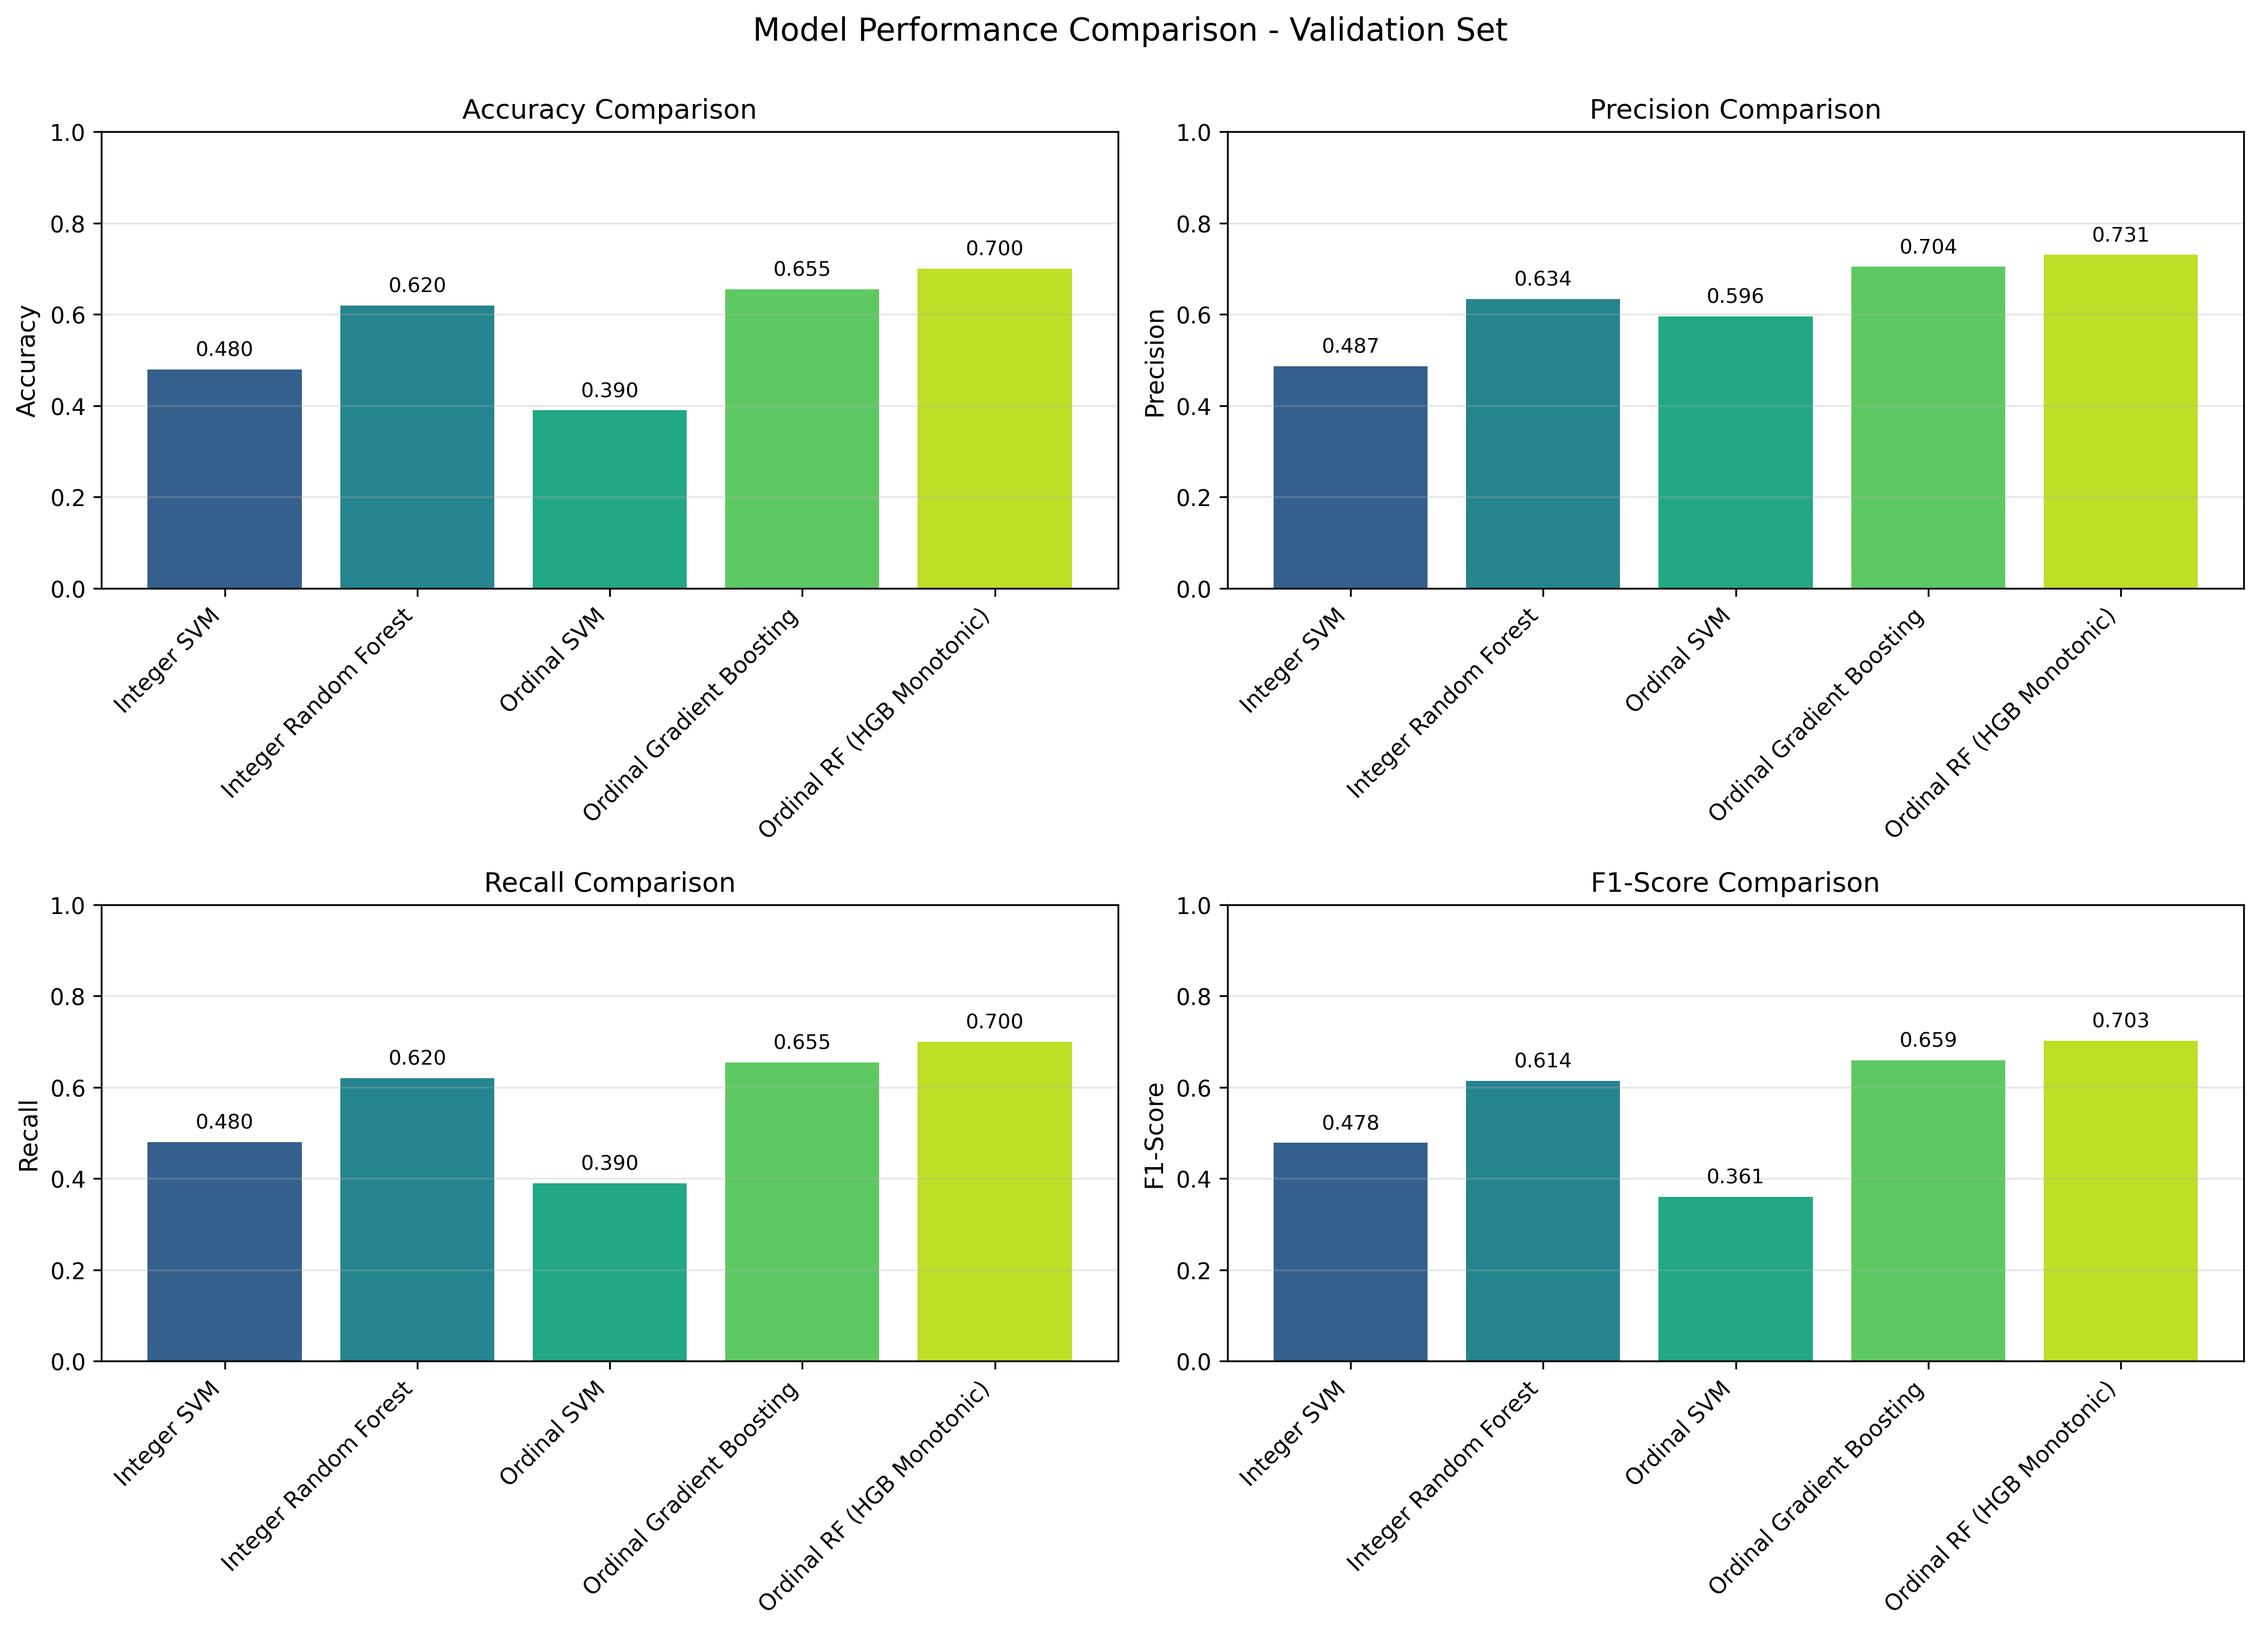
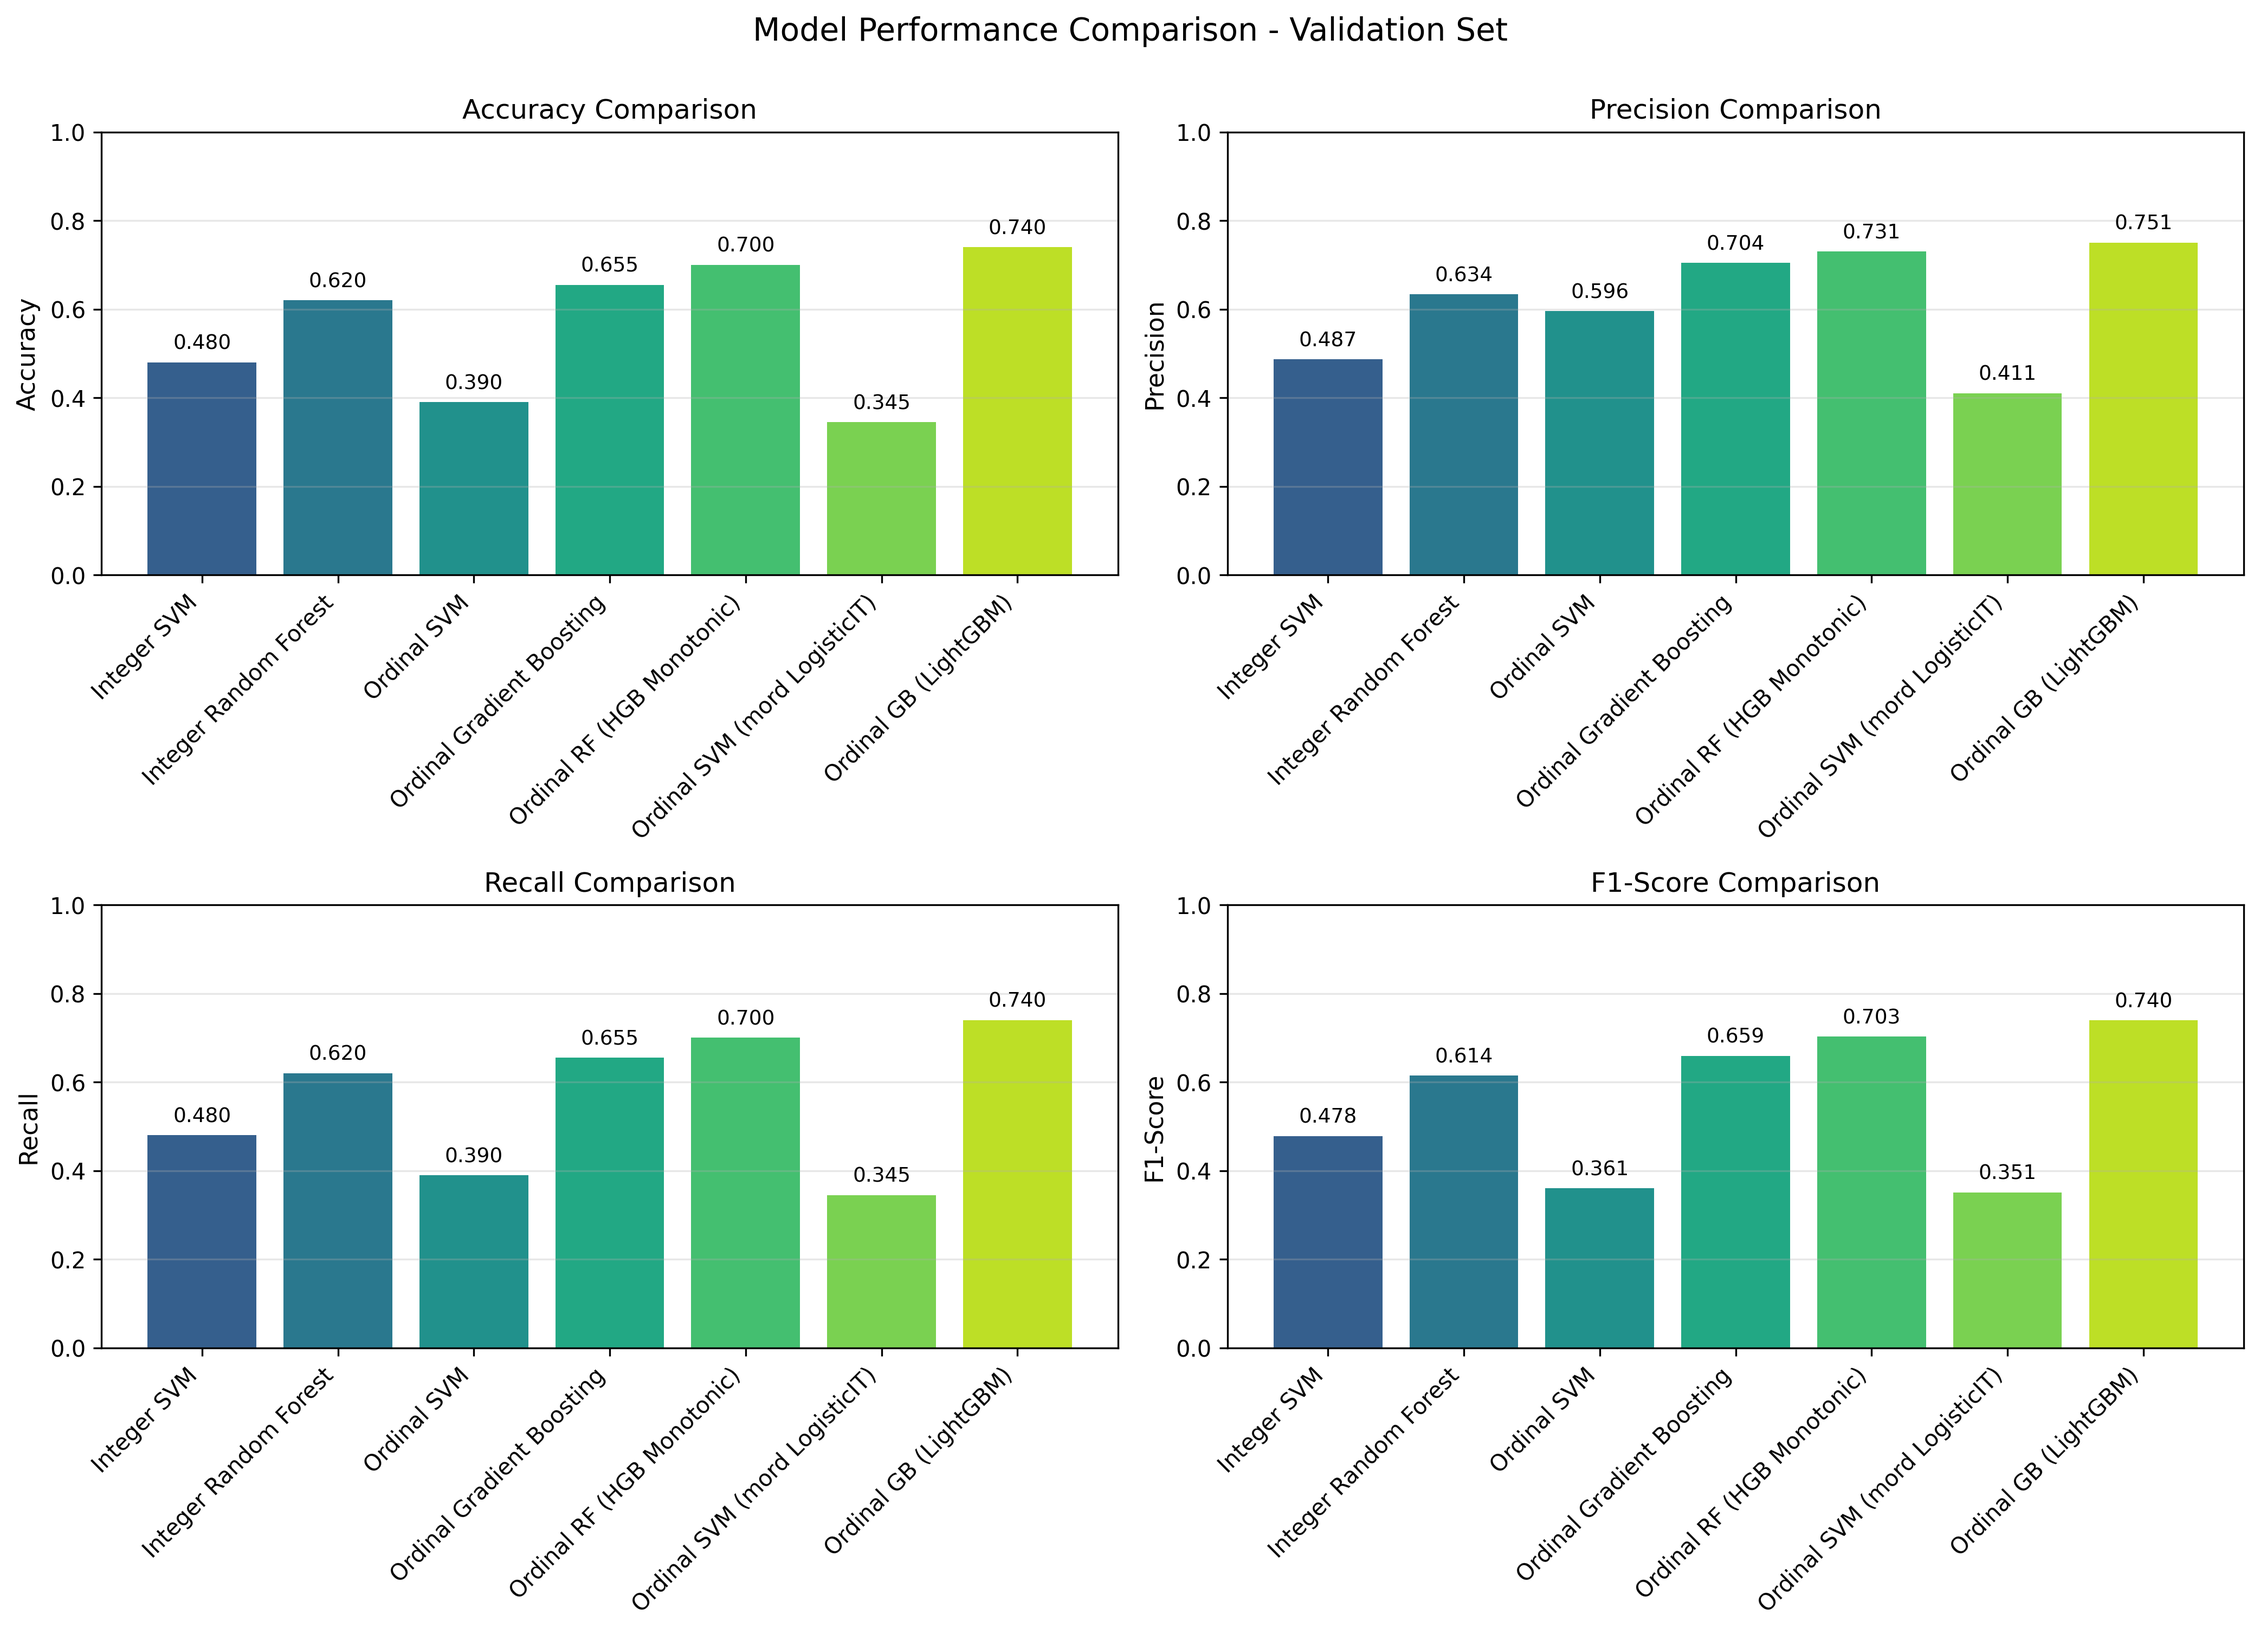
added ordinal svm, rf and gb

diff --git a/code/05_evaluate_models.py b/code/05_evaluate_models.py
@@ -209,6 +209,8 @@ def main():
         ('features/model_svm_ordinal.joblib', 'Ordinal SVM'),
         ('features/model_gb_ordinal.joblib', 'Ordinal Gradient Boosting'),
         ('features/model_rf_mord.joblib', 'Ordinal RF (HGB Monotonic)'),
+        ('features/model_svm_mord.joblib', 'Ordinal SVM (mord LogisticIT)'),
+        ('features/model_gb_lightgbm.joblib', 'Ordinal GB (LightGBM)'),
     ]
     
     results = []
